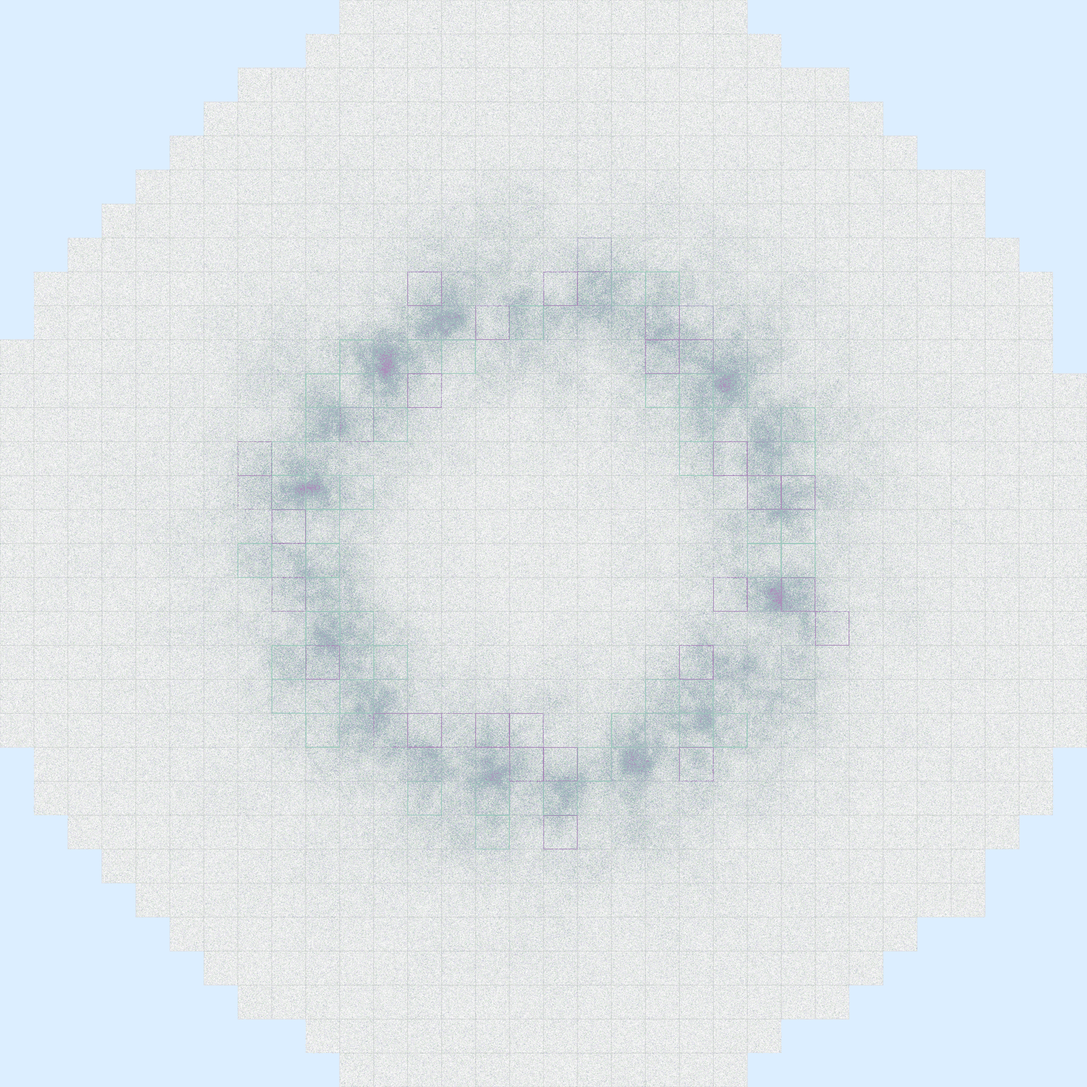
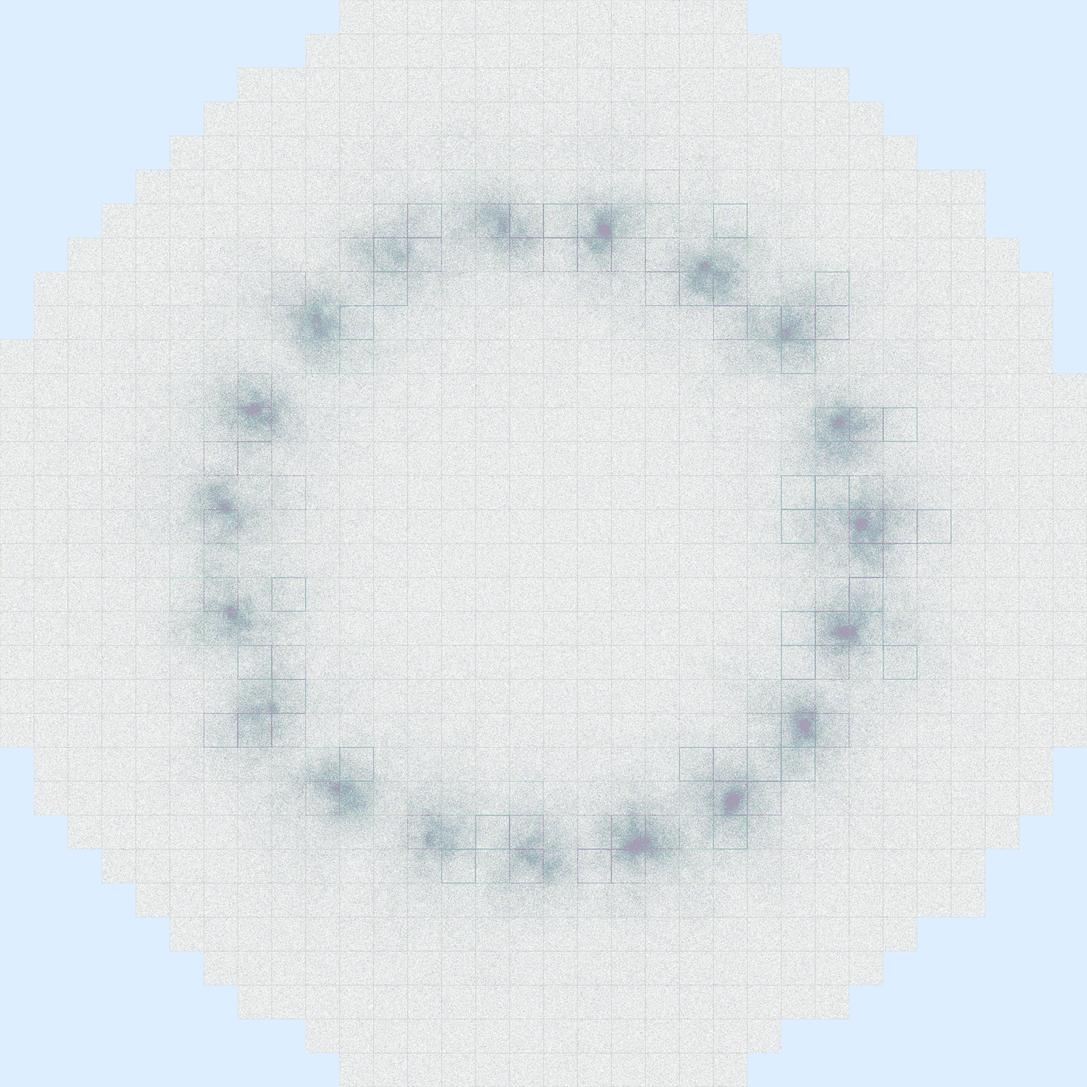
manager report: diversity-top 4 cluster + matched 6 single wafer
- group composite: variance score 상위 4 cluster 로 교체
  CenterCircle (Δbright 4) / ParallelScratches (Δbright 7) /
  RingDots (Δbright 7) / BrokenRing (Δbright 6) — 산포 충분히 보임
- single wafer: 4 group class + Center_fork + Edge-Ring_scratch 로 매칭
- group composite 캡션에 diversity sampling 명시

diff --git a/docs/paper/manager_report/REPORT.md b/docs/paper/manager_report/REPORT.md
@@ -78,18 +78,18 @@ wafer ──► CNN ──► 128-dim emb ──► HDBSCAN ──► group A, B
 
 <table>
 <tr>
-<td align="center" valign="top" width="33%"><img src="figs/wafer_01_CrescentArc.png" width="260" height="260"><br><b>CrescentArc</b><br>canvas pattern</td>
-<td align="center" valign="top" width="33%"><img src="figs/wafer_02_BrokenRing.png" width="260" height="260"><br><b>BrokenRing</b><br>canvas pattern</td>
+<td align="center" valign="top" width="33%"><img src="figs/wafer_01_CenterCircle.png" width="260" height="260"><br><b>CenterCircle</b><br>canvas pattern</td>
+<td align="center" valign="top" width="33%"><img src="figs/wafer_02_ParallelScratches.png" width="260" height="260"><br><b>ParallelScratches</b><br>canvas pattern</td>
 <td align="center" valign="top" width="33%"><img src="figs/wafer_03_RingDots.png" width="260" height="260"><br><b>RingDots</b><br>canvas pattern</td>
 </tr>
 <tr>
-<td align="center" valign="top" width="33%"><img src="figs/wafer_04_Center_fork.png" width="260" height="260"><br><b>Center_fork</b><br>site×chip object</td>
-<td align="center" valign="top" width="33%"><img src="figs/wafer_05_EdgeBottom_scratch_rot.png" width="260" height="260"><br><b>Edge-Bottom_scratch_rot</b><br>site×chip object</td>
+<td align="center" valign="top" width="33%"><img src="figs/wafer_04_BrokenRing.png" width="260" height="260"><br><b>BrokenRing</b><br>canvas pattern</td>
+<td align="center" valign="top" width="33%"><img src="figs/wafer_05_Center_fork.png" width="260" height="260"><br><b>Center_fork</b><br>site×chip object</td>
 <td align="center" valign="top" width="33%"><img src="figs/wafer_06_EdgeRing_scratch.png" width="260" height="260"><br><b>Edge-Ring_scratch</b><br>site×chip object</td>
 </tr>
 </table>
 
-3 canvas (CrescentArc / BrokenRing / RingDots) + 3 site×chip (Center fork / Edge-Bottom scratch_rot / Edge-Ring scratch). 학습 anchor 는 이런 종류 42 class × 평균 30 + Normal 1000 = 2,146 wafer.
+4 canvas (CenterCircle / ParallelScratches / RingDots / BrokenRing) + 2 site×chip (Center_fork / Edge-Ring_scratch). 학습 anchor = 42 defect class × 평균 30 + Normal 1000 = 2,146 wafer.
 
 ### 합성 방식 (sister repo `known-cnn/dist_apply/_sample_gen.py`)
 
@@ -104,16 +104,16 @@ wafer ──► CNN ──► 128-dim emb ──► HDBSCAN ──► group A, B
 
 ## 2. grouping 결과 — 여러 wafer → 한 group
 
-학습 후 embedding → HDBSCAN. 각 panel = **같은 group 안 9 wafer 3×3 grid** (raw single wafer 9 장 직접 합성). 4 group sample (Iter 14 결과):
+학습 후 embedding → HDBSCAN. 각 panel = **같은 group 안 9 wafer 3×3 grid** (brightness × defect-area 2D quantile sampling — 어두/밝음 + 영역 넓/좁 산포 확보). 4 group sample (Iter 14, diversity score 상위):
 
 <table>
 <tr>
-<td align="center" valign="top" width="50%"><img src="figs/group_01_CrescentArc.png" width="380" height="380"><br><b>CrescentArc group</b><br>43 wafer 자동 묶음 (9 sample)</td>
-<td align="center" valign="top" width="50%"><img src="figs/group_02_BrokenRing.png" width="380" height="380"><br><b>BrokenRing group</b><br>17 wafer 자동 묶음 (9 sample)</td>
+<td align="center" valign="top" width="50%"><img src="figs/group_01_CenterCircle.png" width="380" height="380"><br><b>CenterCircle group</b><br>41 wafer 자동 묶음 (9 sample)</td>
+<td align="center" valign="top" width="50%"><img src="figs/group_02_ParallelScratches.png" width="380" height="380"><br><b>ParallelScratches group</b><br>40 wafer 자동 묶음 (9 sample)</td>
 </tr>
 <tr>
-<td align="center" valign="top" width="50%"><img src="figs/group_03_EdgeBottom_scratch_rot.png" width="380" height="380"><br><b>Edge-Bottom_scratch_rot group</b><br>13 wafer 자동 묶음 (9 sample)</td>
-<td align="center" valign="top" width="50%"><img src="figs/group_04_EdgeRing_scratch.png" width="380" height="380"><br><b>Edge-Ring_scratch group</b><br>20 wafer 자동 묶음 (9 sample)</td>
+<td align="center" valign="top" width="50%"><img src="figs/group_03_RingDots.png" width="380" height="380"><br><b>RingDots group</b><br>27 wafer 자동 묶음 (9 sample)</td>
+<td align="center" valign="top" width="50%"><img src="figs/group_04_BrokenRing.png" width="380" height="380"><br><b>BrokenRing group</b><br>17 wafer 자동 묶음 (9 sample)</td>
 </tr>
 </table>
 
